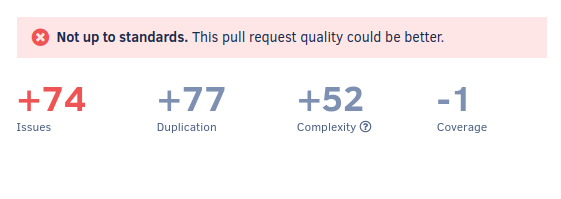
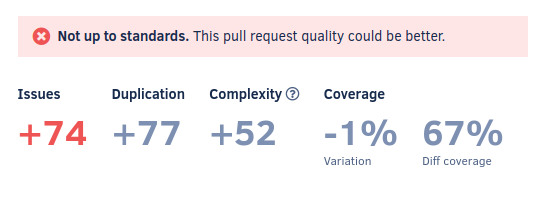
feature: Add diff coverage to pull request quality overview CY-5544 (#1025)
* feature: Mention diff coverage on pull request quality overview

* clean: Add "endif" to list of accepted words

This stops Vale from triggering on if statements in Jinja templates.

* feature: Update screenshots to include new diff coverage metric

diff --git a/docs/repositories/commits.md b/docs/repositories/commits.md
@@ -32,7 +32,17 @@ This area displays the information that identifies the commit (SHA hash, date, a
 
 This area displays the overview of the code quality metrics for the {{ page.meta.page_name }}:
 
--   The changes in the number of issues and code quality metrics introduced by the {{ page.meta.page_name }} are displayed either as a **positive or negative variation**, or **no variation** (represented by `=`).
+-   The changes to the following code quality metrics introduced by the {{ page.meta.page_name }} are displayed either as a **positive or negative variation**, or **no variation** (represented by `=`):
+    -   **Issues:** Number of new or fixed issues
+    -   **Duplication:** Number of new or fixed duplicated code blocks
+    -   **Complexity:** Variation of complexity
+{% if page.meta.page_name == "commit" %}
+    -   **Coverage:** Variation of code coverage percentage relative to the parent commit
+{% endif %}
+{% if page.meta.page_name == "pull request" %}
+    -   **Coverage variation:** Variation of code coverage relative to the target branch
+    -   **Diff coverage:** Code coverage of the lines added or changed by the pull request
+{% endif %}
 -   The **colors** depend on the [quality gate rules](../repositories-configure/adjusting-quality-settings.md) that are configured on your repository quality settings:
     -   **Green:** The metric passes the quality gate
     -   **Red:** The metric fails the quality gate
